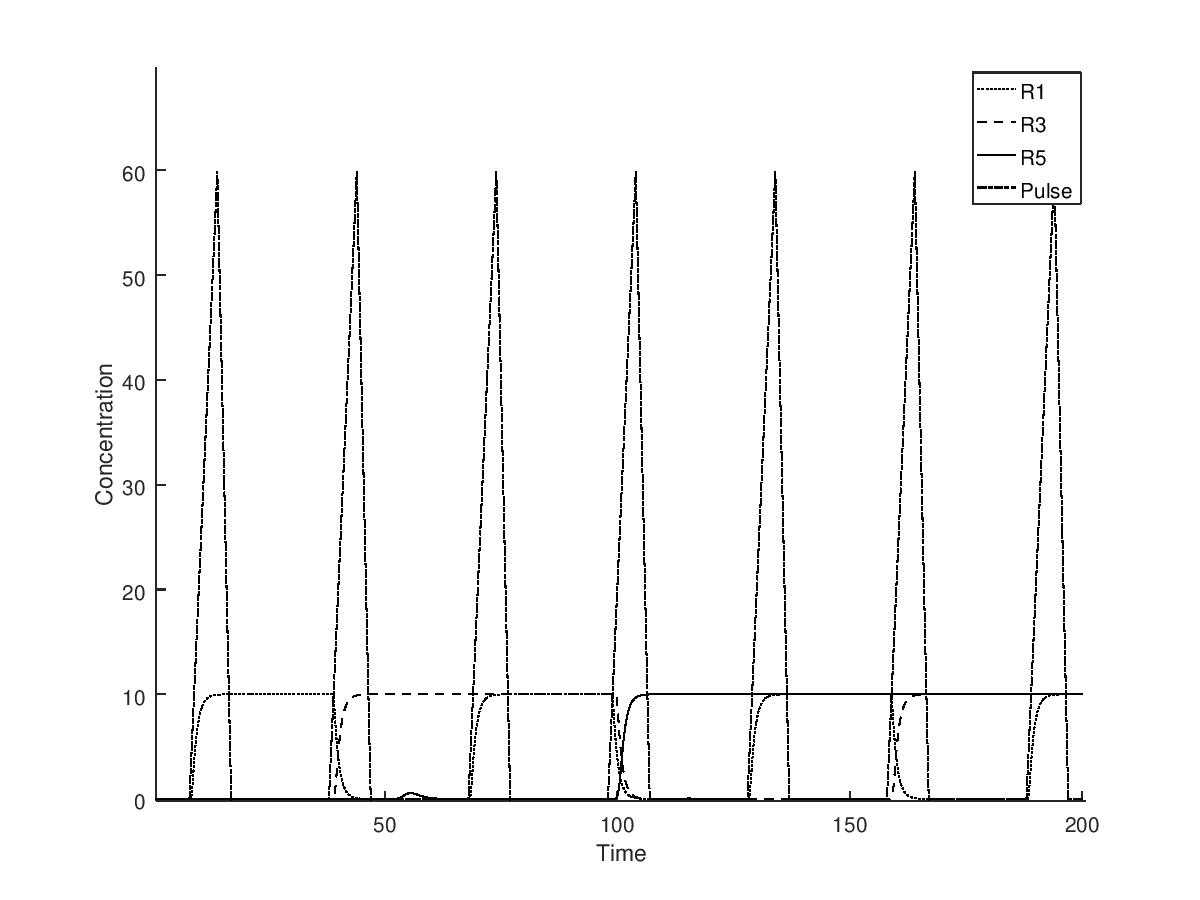
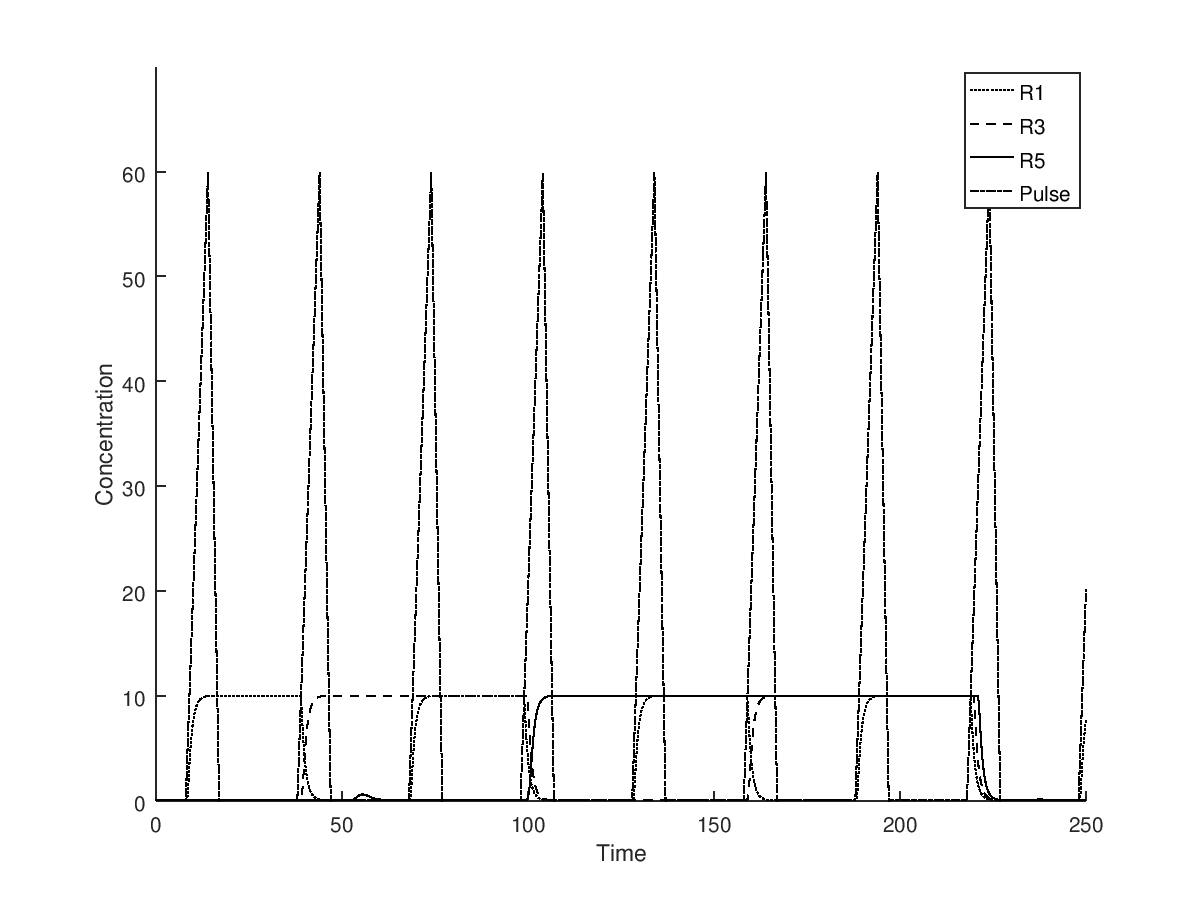
org

diff --git a/switch/robust counter/Used/3bitCounter.m b/switch/robust counter/Used/3bitCounter.m
@@ -1,9 +1,9 @@
 clear;
 
 dt=0.01; 
-t=0:dt:200; 
+t=0:dt:250; 
 
-%i = 1 ate 20000
+%i = 1 ate 26000
 
 p1 = 0;
 p2 = 2.5;
@@ -195,7 +195,6 @@ endfor
 
 figure;
 hold on;
-%plot(t, p1s, 'b;P1;', t ,p2s, 'r;P2;', t , pulso , 'k;pulso;');
-plot(t, p1s, ':k;R1;', t, sep1s, '--k;R3;', t, thp1s, '-k;R5;', t , pulso , '-.k;Pulse;');
+plot(t, p1s, ':k;R1;', t, sep1s, '--k;R3;', t, thp1s, 'k;R5;', t , pulso , '-.k;Pulse;');
 xlabel('Time');
 ylabel('Concentration');
